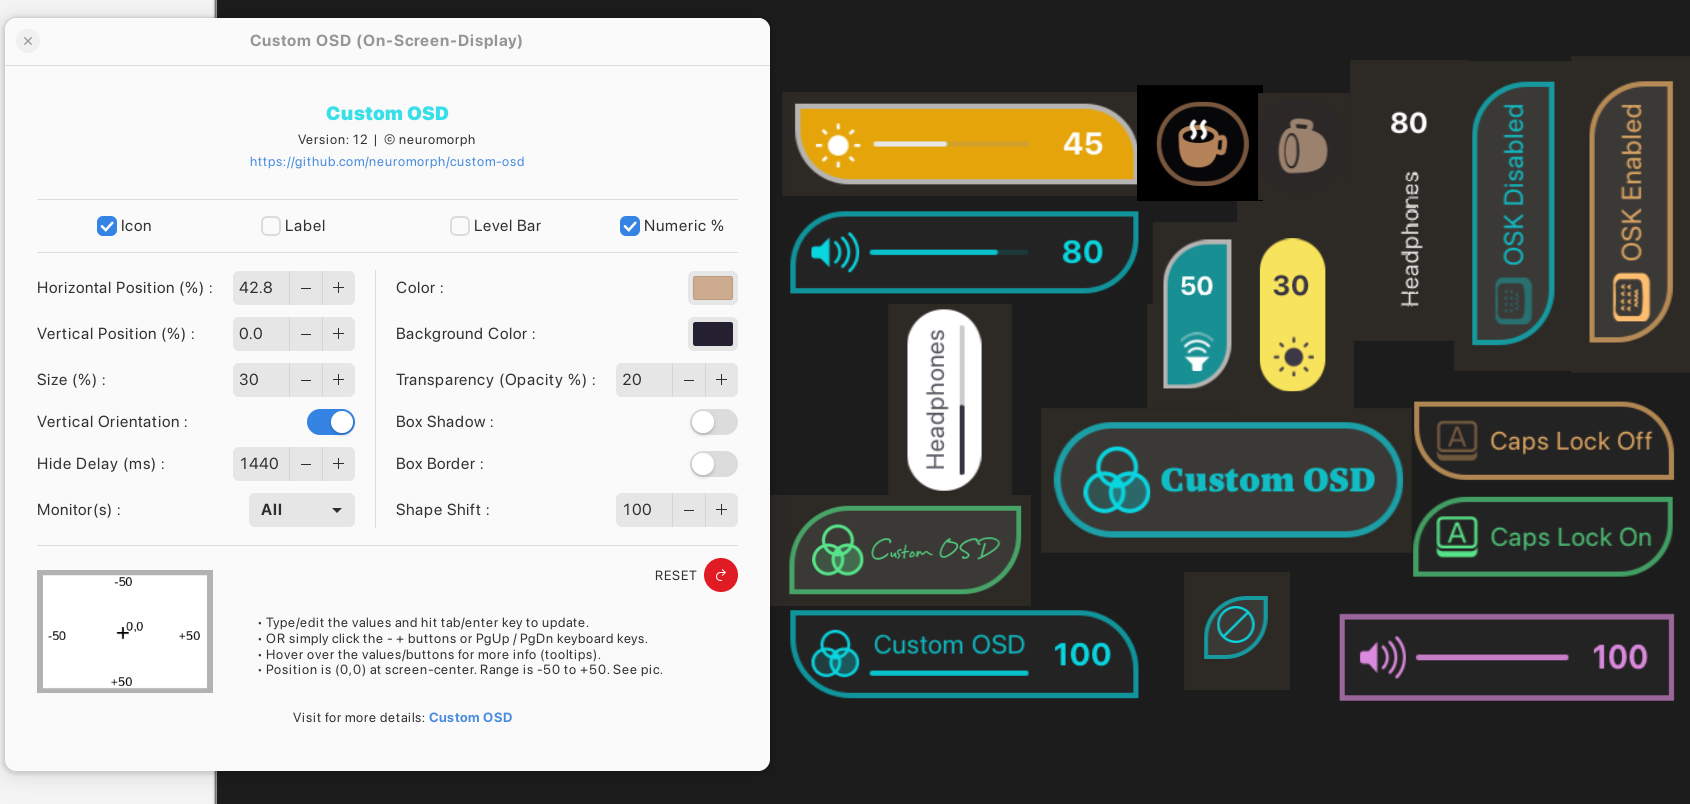
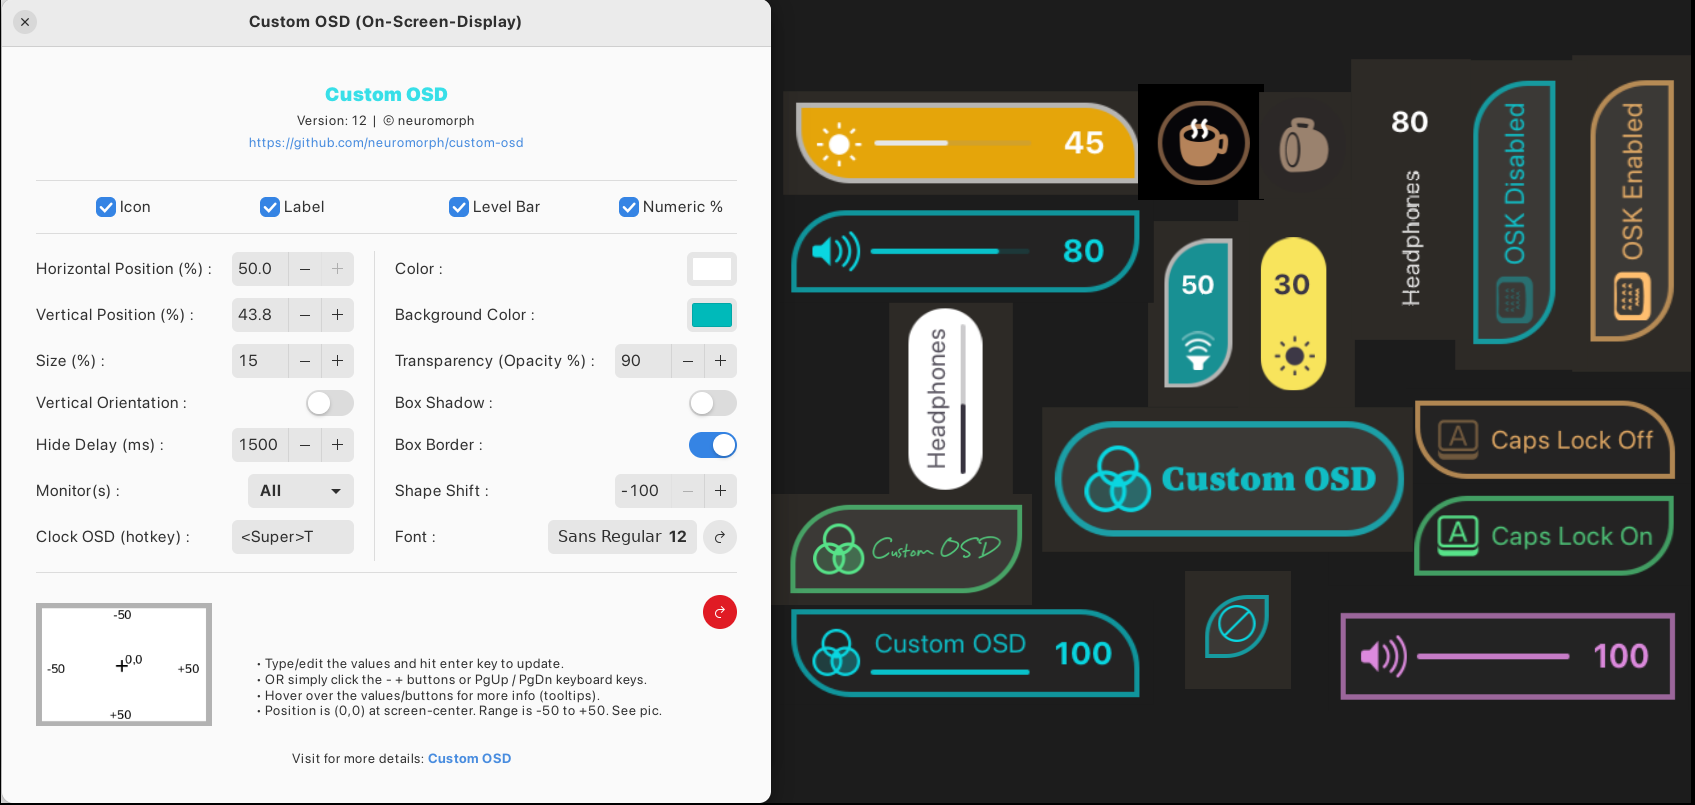
add font support and clock osd

diff --git a/prefs.js b/prefs.js
@@ -312,6 +312,31 @@ const CustomOSDSettingsWidget = new GObject.registerClass(
 
       //-------------------------------------------------------
 
+      rowNo += 2
+      this.clockLabel = new Gtk.Label({
+        label: _("Clock OSD (hotkey) :"),
+        use_markup: true,
+        halign: Gtk.Align.START,
+      });
+      
+      let clockkey = this._settings.get_strv('clock-osd');
+      this.clockEntry = new Gtk.Entry({
+        halign: Gtk.Align.END,
+        text: clockkey[0],
+      });
+      this.clockEntry.set_tooltip_text("<Alt> <Ctrl> <Super> A B C ... 0 1 2 ...");
+
+      // connect to event (after editing entry and pressing enter)
+      this.clockEntry.connect('activate', () => {
+        let key = this.clockEntry.get_text();
+        this._settings.set_strv('clock-osd', [key]);
+      });
+
+      this.attach(this.clockLabel, 1, rowNo, 1, 1);
+      this.attach(this.clockEntry, 2, rowNo, 1, 1);
+
+      //-------------------------------------------------------
+
       rowNo = rowReset;
       rowNo += 2
       let labelColor = _("Color :");
@@ -374,7 +399,7 @@ const CustomOSDSettingsWidget = new GObject.registerClass(
       this.alpha.set_value(15);
       this.alpha.width_chars = 4;
       this.alpha.set_increments(5, 10);
-      this.alpha.set_tooltip_text("Transparent: 0 ↞↠ 100 :Opaque");
+      this.alpha.set_tooltip_text("Transparent Backgroud: 0 ↞↠ 100 :Opaque Backgroud");
 
       this.alpha.connect(
         "value-changed",
@@ -475,6 +500,53 @@ const CustomOSDSettingsWidget = new GObject.registerClass(
       //-------------------------------------------------------
 
       rowNo += 2
+
+      this.fontLabel = new Gtk.Label({
+        use_markup: true,
+        label: `Font :`,
+        hexpand: true,
+        halign: Gtk.Align.START,
+      });
+
+      this.fontBtn = new Gtk.FontButton({
+        halign: Gtk.Align.END,
+        valign: Gtk.Align.CENTER,
+        use_font: true,
+      });
+      let font = this._settings.get_string('font');
+      if (font == ""){
+        let defaultFont = this.fontBtn.get_font();
+        this._settings.set_string('default-font', defaultFont);
+      }
+      this.fontBtn.set_tooltip_text("Font for OSD text");
+
+      this.fontBtn.connect('font-set', (widget) => {
+        let font = widget.get_font();
+        this._settings.set_string('font', font);
+      });
+
+      this.resetFont = new Gtk.Button({icon_name: 'edit-undo-rtl-symbolic', valign: Gtk.Align.CENTER, halign: Gtk.Align.END}); 
+      this.resetFont.get_style_context().add_class('circular');
+      this.resetFont.set_tooltip_text("Reset to default font");
+      this.resetFont.connect('clicked', () => {
+        this._settings.reset('font');
+        this.fontBtn.set_font(this._settings.get_string('default-font'));
+      });
+
+      this.fontBox = new Gtk.Box({
+        orientation: Gtk.Orientation.HORIZONTAL,
+        spacing: 6,
+        valign: Gtk.Align.CENTER,
+      });
+      this.fontBox.prepend(this.fontLabel);
+      this.fontBox.append(this.fontBtn);
+      this.fontBox.append(this.resetFont);
+
+      this.attach(this.fontBox, 4, rowNo, 2, 1);
+      
+      //-------------------------------------------------------
+
+      rowNo += 2
       this.separator = new Gtk.Separator({
         orientation: Gtk.Orientation.HORIZONTAL,
         hexpand: true,
@@ -491,41 +563,24 @@ const CustomOSDSettingsWidget = new GObject.registerClass(
         margin_top: this.margin_top*2,
         margin_bottom: this.margin_top*2,
       });
-      this.attach(this.separatorV, 3, rowTop, 1, 16);
+      this.attach(this.separatorV, 3, rowTop, 1, 19);
 
 
       //-------------------------------------------------------
 
       rowNo+=2
-      this.msgLabel = new Gtk.Label({
-        label: '',
-        use_markup: true,
-        halign: Gtk.Align.END,
-      });
-      this._settings.connect(`changed`, () => {this.msgLabel.label = '';});
 
-      this.resetLabel = new Gtk.Label({
-        label: `<span size="small">RESET</span>`,
-        use_markup: true,
-        halign: Gtk.Align.CENTER,
-      });
-      this.reset = new Gtk.Button({icon_name: 'edit-undo-rtl-symbolic', hexpand: false, vexpand: false, halign: Gtk.Align.END, valign: Gtk.Align.CENTER}); 
+      this.reset = new Gtk.Button({icon_name: 'edit-undo-rtl-symbolic', halign: Gtk.Align.END, valign: Gtk.Align.CENTER}); 
       this.reset.get_style_context().add_class('destructive-action');
       this.reset.get_style_context().add_class('circular');
       this.reset.set_tooltip_text("Reset all settings to extension defaults");
-      this.reset.connect('clicked', () => {
-        let keys = this._settings.list_keys();
-        keys.forEach(k => { this._settings.reset(k); });
-        this._setPrefValues();
-        this.msgLabel.label = `<span line_height="1.5pt" size="medium" bgcolor="#F9D18B99">Settings have been reset to default values!</span>`;
-      });
-      this.attach(this.msgLabel, 1, rowNo, 4, 1);
-      this.attach(this.resetLabel, 5, rowNo, 1, 1);
-      this.attach(this.reset, 5, rowNo, 1, 1);
+      this.reset.connect('clicked', () => {this._resetSettingsDialog();});
 
+      this.attach(this.reset, 5, rowNo, 1, 1);
 
       //-------------------------------------------------------
 
+      // rowNo+=2
       this.noteImage = new Gtk.Picture({
         vexpand: true,
         hexpand: true,
@@ -541,7 +596,7 @@ const CustomOSDSettingsWidget = new GObject.registerClass(
       rowNo+=1
       this.noteLabel = new Gtk.Label({
         label: `<span size="small" underline="none">
-        • Type/edit the values and hit tab/enter key to update. 
+        • Type/edit the values and hit enter key to update. 
         • OR simply click the - + buttons or PgUp / PgDn keyboard keys.
         • Hover over the values/buttons for more info (tooltips).
         • Position is (0,0) at screen-center. Range is -50 to +50. See pic.
@@ -554,7 +609,7 @@ const CustomOSDSettingsWidget = new GObject.registerClass(
         width_chars: 35,
       });
 
-      this.attach(this.noteLabel, 2, rowNo, 4, 1);
+      this.attach(this.noteLabel, 2, rowNo, 4, 4);
 
       //-------------------------------------------------------
 
@@ -562,6 +617,33 @@ const CustomOSDSettingsWidget = new GObject.registerClass(
       this._setPrefValues();
 
     }
+
+    _resetSettingsDialog() {
+      let dialog = new Gtk.MessageDialog({
+        modal: true,
+        text: _("Reset Settings?"),
+        secondary_text: _("All settings will be reset to extension default values."),
+        transient_for: this.get_root(),
+      });
+      // add buttons to dialog as 'Reset' and 'Cancel' with 'Cancel' as default
+      dialog.add_button(_("Reset"), Gtk.ResponseType.YES);
+      dialog.add_button(_("Cancel"), Gtk.ResponseType.CANCEL);
+      dialog.set_default_response(Gtk.ResponseType.CANCEL);
+      
+      // Connect the dialog to the callback function
+      dialog.connect("response", (dialog, responseId) => {
+        if (responseId == Gtk.ResponseType.YES) {
+          let keys = this._settings.list_keys();
+          keys.forEach(k => { this._settings.reset(k); });
+          this._setPrefValues();
+        }
+        dialog.destroy();
+      });
+
+      dialog.show();
+
+    }
+
 
     _setPrefValues(){
 
@@ -597,7 +679,12 @@ const CustomOSDSettingsWidget = new GObject.registerClass(
       this.shadow.set_active(this._settings.get_boolean("shadow"));
       this.border.set_active(this._settings.get_boolean("border"));
       this.bradius.set_value(this._settings.get_int("bradius"));
-    
+      let font = this._settings.get_string('font');
+      if (font == ""){
+        font = this._settings.get_string('default-font');
+      }
+      this.fontBtn.set_font(font);
+          
     }
   }
 );
@@ -609,8 +696,8 @@ function buildPrefsWidget() {
   prefWidget.connect("realize", ()=>{
     const window = prefWidget.get_root();
     window.set_title(_("Custom OSD (On-Screen-Display)"));
-    window.default_height = 775;
-    window.default_width = 675;
+    window.default_height = 800;
+    window.default_width = 700;
   });
 
   return prefWidget;

diff --git a/extension.js b/extension.js
@@ -1,13 +1,15 @@
 const Clutter = imports.gi.Clutter;
 const St = imports.gi.St;
 const GObject = imports.gi.GObject;
-const GLib = imports.gi.GLib;
 const Gio = imports.gi.Gio;
 const Main = imports.ui.main;
 const OsdWindow = imports.ui.osdWindow;
 const OsdWindowManager = Main.osdWindowManager;
 const ExtensionUtils = imports.misc.extensionUtils;
 const Me = ExtensionUtils.getCurrentExtension();
+const Meta = imports.gi.Meta;
+const Shell = imports.gi.Shell;
+const Pango = imports.gi.Pango;
 
 const COSD_SCHEMA = "org.gnome.shell.extensions.custom-osd";
 
@@ -17,6 +19,7 @@ class CustomOSDExtension {
     this._settings = null;
     this._injections = [];
     this._custOSDIcon = null;
+    this._timeOSDIcon = null;
     this._restoreIconSize = null;
     this._restoreHideTimeout = 1500;
   }
@@ -39,6 +42,30 @@ class CustomOSDExtension {
     else object[name] = injection[name];
   }
 
+
+  _getDateTime() {
+    let date = new Date();
+    let dayname = date.toLocaleString("en-us", { weekday: "short" });
+    // let month = date.toLocaleString("en-us", { month: "short" });
+    let day = date.getDate();
+    // let year = date.getFullYear();
+    let strDate = `${dayname} ${day}`;
+
+    let hours = date.getHours();
+    let minutes = date.getMinutes();
+    let ampm = hours >= 12 ? "PM" : "AM";
+    hours = hours % 12;
+    hours = hours ? hours : 12; // the hour '0' should be '12'
+    minutes = minutes < 10 ? "0" + minutes : minutes;
+    let strTime = hours + ":" + minutes + " " + ampm;
+    
+    return " " + strDate + "   " + strTime + " ";
+  }
+
+  _showClockOSD() {
+    OsdWindowManager.show(-1, this._timeOSDIcon, this._getDateTime());
+  }
+  
   _createLevLabel(osdW){
       osdW._levLabel = new St.Label({
         name: 'levLabel',
@@ -84,6 +111,7 @@ class CustomOSDExtension {
     const shadow = this._settings.get_boolean("shadow");
     const border = this._settings.get_boolean("border");
     const rotate = this._settings.get_boolean("rotate");
+    const font = this._settings.get_string("font");
 
     const red = parseInt(parseFloat(color[0]) * 255);
     const green = parseInt(parseFloat(color[1]) * 255);
@@ -119,16 +147,32 @@ class CustomOSDExtension {
       );
 
       let pad = parseInt(5 + osd_size*0.3);
-      let hboxSty = `background-color: rgba(${bgred},${bggreen},${bgblue},${alpha}); color: rgba(${red},${green},${blue},${falpha}); padding: ${pad}px ${0.7*pad}px ${pad}px ${1.3*pad}px; margin: 0px;`;
+      let thickness = parseInt(3 + osd_size*0.08);
+      let hboxSty = `background-color: rgba(${bgred},${bggreen},${bgblue},${alpha}); color: rgba(${red},${green},${blue},${falpha}); 
+                    padding: ${pad}px ${0.7*pad}px ${pad}px ${1.3*pad}px; margin: 0px;`;
       if (!shadow) hboxSty += ' box-shadow: none;';
-      if (border) hboxSty += ` border-color: rgba(${red},${green},${blue},${0.65*falpha}); border-width: ${parseInt(3 + osd_size*0.08)}px;`;      
-      osdW._hbox.style = hboxSty;
+      if (border) hboxSty += ` border-color: rgba(${red},${green},${blue},${0.65*falpha}); border-width: ${thickness}px;`;   
 
       // osdW._label.x_align = Clutter.ActorAlign.CENTER;
-      osdW._label.style = ` font-size: ${14 + osd_size*0.4}px;  font-weight: normal; color: rgba(${red},${green},${blue},${0.85*falpha}); `; 
-      osdW._level.style = ` height: ${parseInt(3 + osd_size*0.08)}px; -barlevel-height: ${parseInt(3 + osd_size*0.08)}px; min-width: ${30 + osdW._icon.icon_size*2.5}px; 
+      osdW._label.style = ` font-size: ${14 + osd_size*0.4}px;  font-weight: normal; color: rgba(${red},${green},${blue},${0.9*falpha}); `; 
+      osdW._level.style = ` height: ${thickness}px; -barlevel-height: ${thickness}px; min-width: ${30 + osdW._icon.icon_size*2.5}px; 
       -barlevel-active-background-color: rgba(${red},${green},${blue},${falpha}); -barlevel-background-color: rgba(${red},${green},${blue},0.15); `; 
-      osdW._levLabel.style = ` font-size: ${15 + osd_size*0.6}px; font-weight: bold; min-width: ${30 + osd_size*1.55}px; `; 
+      osdW._levLabel.style = ` font-size: ${15 + osd_size*0.6}px; font-weight: bold; min-width: ${30 + osd_size*1.65}px; `; 
+
+      if (font != ""){
+        let fontDesc = Pango.font_description_from_string(font); 
+        let fontFamily = fontDesc.get_family();
+        let fontSize = fontDesc.get_size() / Pango.SCALE;
+        let fontWeight;
+        try{
+          fontWeight = fontDesc.get_weight();
+        }catch(e){
+          fontWeight = Math.round(fontWeight/100)*100;
+        }
+        hboxSty += ` font-family: ${fontFamily}; `;
+        osdW._label.style += ` font-size: ${fontSize}px; font-weight: ${fontWeight}; `; 
+      }
+      osdW._hbox.style = hboxSty;
 
       osdW.y_align = Clutter.ActorAlign.CENTER;
 
@@ -179,11 +223,20 @@ class CustomOSDExtension {
     
     let custOSD = this;
     this._custOSDIcon = Gio.ThemedIcon.new_with_default_fallbacks('preferences-color-symbolic');
+    this._timeOSDIcon = Gio.ThemedIcon.new_with_default_fallbacks('preferences-system-time-symbolic');
 
     this._settings = ExtensionUtils.getSettings(this._schema);
     this._settings.connect(`changed`, () => this._syncSettings(true));
     Main.layoutManager.connect('monitors-changed', () => this._syncSettings(false));
     this._syncSettings(false);
+
+    Main.wm.addKeybinding(
+      "clock-osd",
+      this._settings,
+      Meta.KeyBindingFlags.NONE,
+      Shell.ActionMode.NORMAL,
+      this._showClockOSD.bind(this)
+    );
 
     this._restoreIconSize = OsdWindowManager._osdWindows[0]._icon.icon_size;
     this._restoreHideTimeout = OsdWindow.HIDE_TIMEOUT;
@@ -260,9 +313,12 @@ class CustomOSDExtension {
 
   disable() {
 
+    Main.wm.removeKeybinding("clock-osd");
+
     this._unCustomOSD();
     this._settings = null;
     this._custOSDIcon = null;
+    this._timeOSDIcon = null;
     
     OsdWindow.HIDE_TIMEOUT = this._restoreHideTimeout;
 

diff --git a/README.md b/README.md
@@ -44,14 +44,15 @@ Use the settings panel of the extension for most common customizations:
 * Shape Shift: Pill/Rectangle/Other (interpolation)
 * Numeric % for levels
 * Monitor to show OSD on
+* Set Font of OSD text
 * Select what to show: Icon, Text, Level Bar, Numeric %
 
 
 
 ## Optional Advanced Styling
-For optional styling of advanced css options or things like fonts or custom box-shadow effect that is not in settings, you will need to edit "spreadsheet.css" file at -  
+For optional styling of advanced css options or things like custom box-shadow effect that is not in settings, you will need to edit "spreadsheet.css" file at -  
 ~/.local/share/gnome-shell/extensions/custom-osd@neuromorph/  
- After editing the file, you need to lock the screen and unlock again for the changes to take effect. Alternately, you can disable and enable the extension.  
+ After editing the file, you need to disable and enable the extension for the changes to take effect. Alternately, you can lock the screen and unlock again.  
  This allows for some esoteric tinkering for the ones so inclined. 
 
 Example code:
@@ -64,6 +65,7 @@ Example code:
 
 
 ## What's New (recent first)
+- New clock OSD to show current date/time and option to set OSD font in settings
 - Some refactor, button to reset settings to default, foreground trasparency option integrated in color, shape shift, fix defaults.
 - Select any combinations of OSD components to display. New test-OSD for instant feedback when changing settings. Refactor to preset OSDs with customization and minimize runtime adaptation.
 - Improved positioning logic to snap fit edges
@@ -71,7 +73,7 @@ Example code:
 - Added support for Numeric level %, Monitors to display OSD and Box Border
 - Added support for Color+BG Color, Shadow and Orientation
 - Settings updated to include Color and Transparency options
-- Upload initial version to Gnome extensions store
+- Cleanup and upload initial version to Gnome extensions store
 - Metadata updated for Gnome 44
 - Ported for GNOME 42 + some fixes
 
